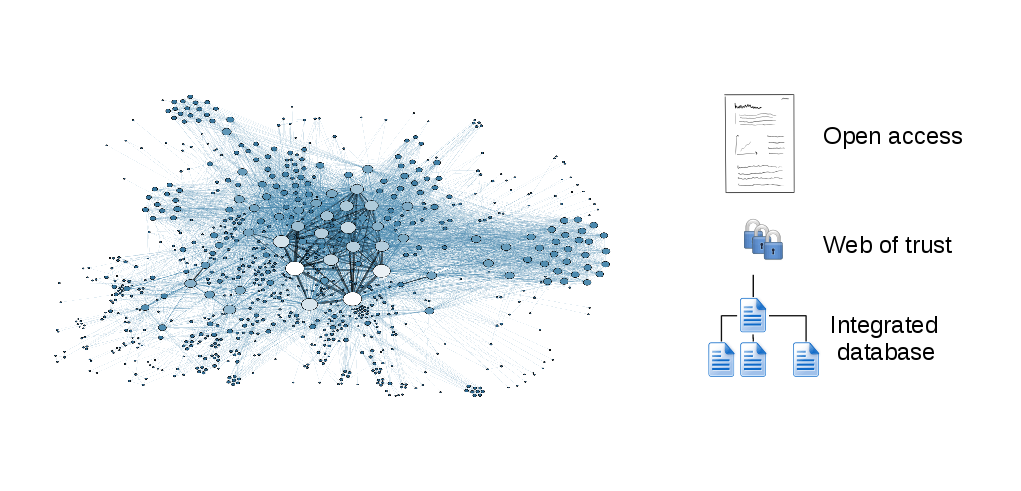
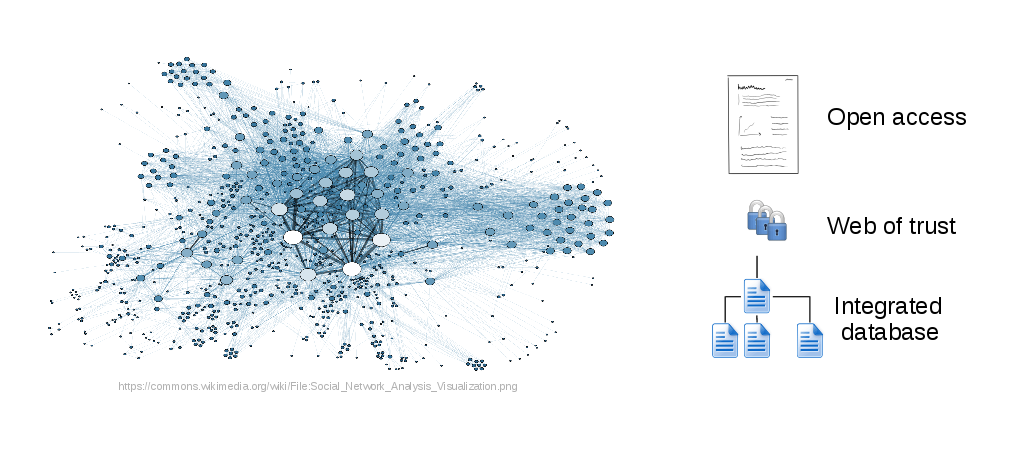
writing..

diff --git a/README.md b/README.md
@@ -53,7 +53,7 @@ When the group thinks something is ready to publish, it releases it into the uni
 ![uni](/Artwork/uni.png)
 
 ## World wide science-net
-![net](/Artwork/net.png “https://commons.wikimedia.org/wiki/File:Social_Network_Analysis_Visualization.png”)
+![net](/Artwork/net.png)
 
 ## Effective search in science-net-journal
 
